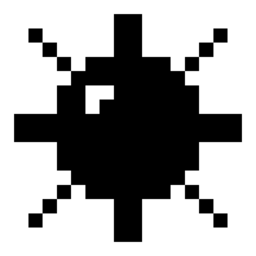
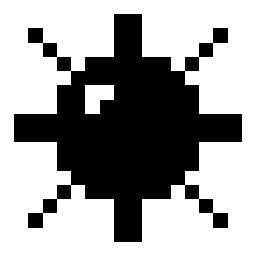
feat: release config

diff --git a/gui/build.rs b/gui/build.rs
@@ -1,0 +1,14 @@
+fn main() {
+    #[cfg(windows)]
+    windows::build()
+}
+
+#[cfg(windows)]
+mod windows {
+    pub fn build() {
+        println!("cargo:rerun-if-changed=assets/icon.ico");
+        let mut res = winresource::WindowsResource::new();
+        res.set_icon("assets/icon.ico");
+        res.compile().expect("Failed to compile Windows resources");
+    }
+}

diff --git a/gui/src/ui.rs b/gui/src/ui.rs
@@ -432,7 +432,7 @@ impl app::App {
     pub fn window_size_for_difficulty(d: config::Difficulty) -> egui::Vec2 {
         let (w, h, _) = d.params();
         egui::vec2(
-            (w as f32 * config::CELL_SIZE + 24.).max(590.),
+            (w as f32 * config::CELL_SIZE + 24.).max(600.),
             h as f32 * config::CELL_SIZE + 160.0,
         )
     }

diff --git a/README.md b/README.md
@@ -15,26 +15,51 @@ A Minesweeper game where every board can be solved by pure logic, with no guessi
 - Numbers show how many mines are in the neighbouring cells
 - Reveal every safe cell to win
 
-## Building
+## Download & Installation
 
-### Native
+### Pre-built Binaries
+
+Standalone executables for **Windows** and **Linux** (`x86_64`) are available on the [Releases](../../releases) page.
+
+### Build from Source
+
+#### Quick Run
 
 ```sh
 cargo run --release
 ```
 
+#### Linux Desktop Integration
+
+To build and install the binary (`minesweep_rs`), desktop entry, and icon system-wide (defaults to `/usr/local`):
+
+```sh
+make build
+sudo make install
+```
+
+To install for the current user only (without `sudo`):
+
+```sh
+make install PREFIX=~/.local
+```
+
+To uninstall:
+
+```sh
+sudo make uninstall
+```
+
 ### Web (WASM)
 
-Using [Trunk](https://trunkrs.dev/):
+Using [Trunk](https://trunkrs.dev):
 
 ```sh
 trunk serve --release
 ```
 
-Then open `http://127.0.0.1:8080`.
+Then open `http://127.0.0.1:8080` in your browser.
 
-<!--
-## Links
+## More Links
 
-- https://cliford.net/posts/minesweeper
-- https://cliford.net/projects/minesweeper -->
+- https://cliford.net/projects/minesweeper
